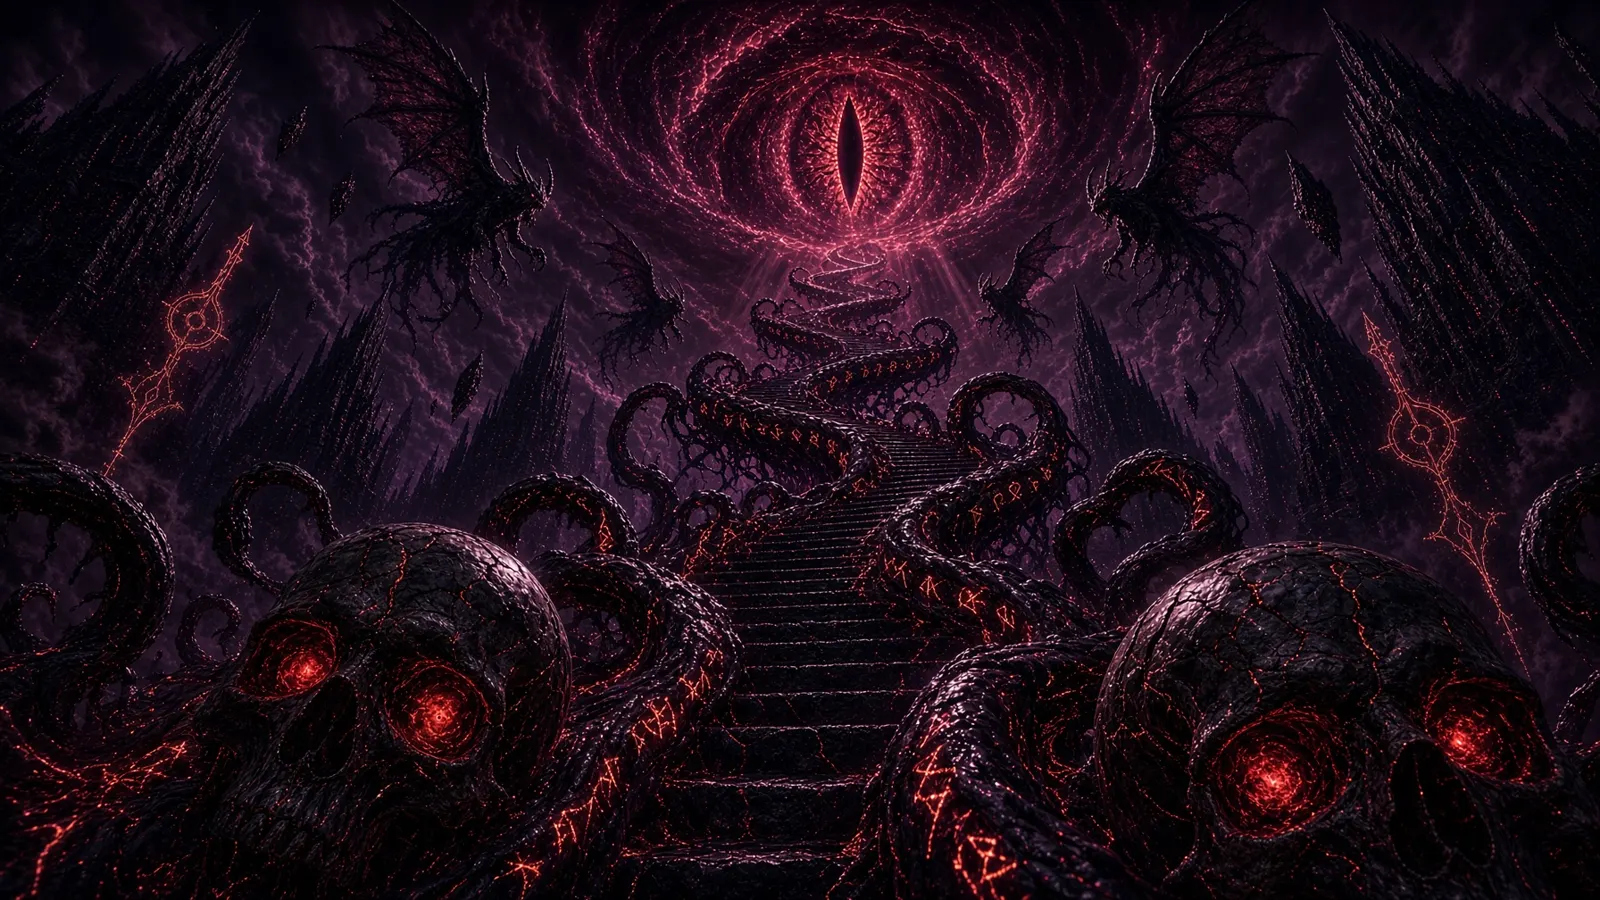
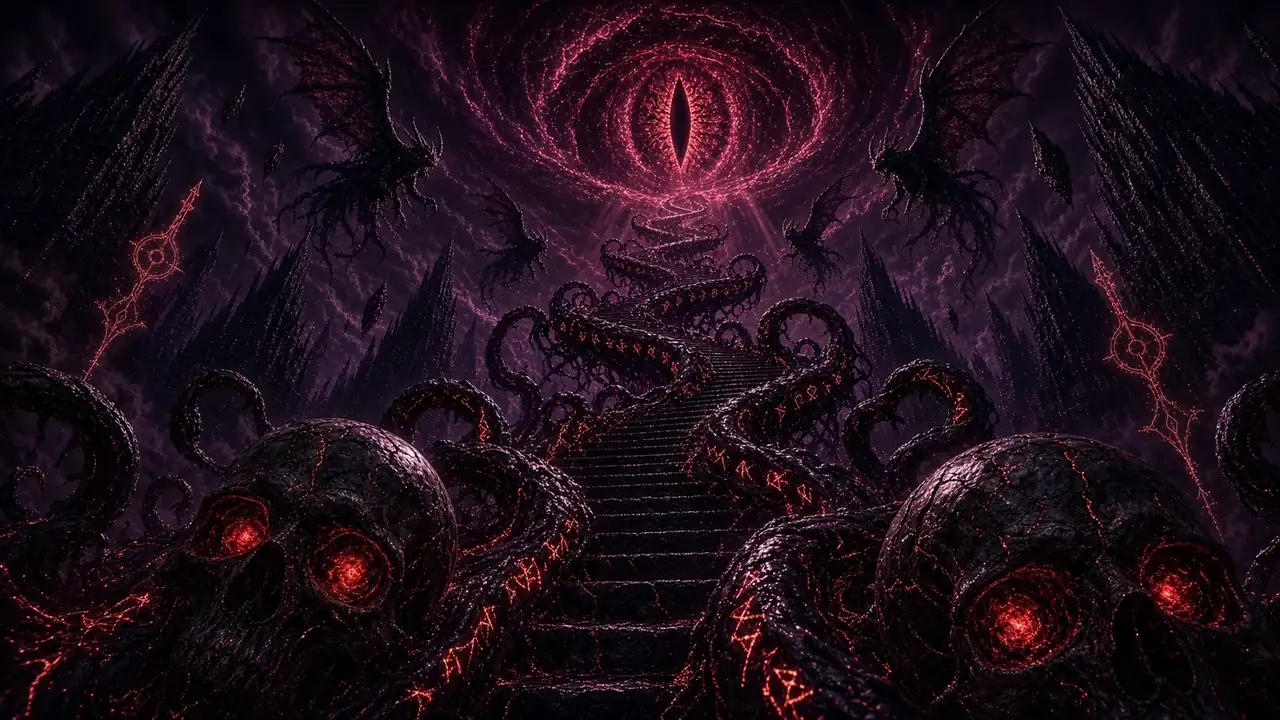
Abyss: load the first screen faster (smaller pictures, staged worlds, self-hosted fonts, non-blocking 3D library)
- the four worlds and the Queen are re-encoded (1600x900 q~75 -> 1280x720 q60;
  Queen 960 q58): 1.1 MB -> 0.57 MB, same look
- the stage is made once the Queen and the city are in; the corrupted city,
  the stairway and the Eye load after and join the stage as they arrive
  (Scene.addWorld)
- Inter and Space Grotesk come from the repo's own woff2 (preloaded), not two
  Google hosts; three.js is deferred and the stage waits for it or its failure

Claude-Session: https://claude.ai/code/session_019q3MnEzt1kSUWpBRmoRDLU

diff --git a/games/kudbee-abyss/src/scene.js b/games/kudbee-abyss/src/scene.js
@@ -29,7 +29,19 @@ ABY.Scene = (function () {
   var CHAR = { queen: [0.47, 0.20, 0.60], guardian: [0.17, 0.30, 0.78], vey: [0.80, 0.60, 0.78] };   // art u, v(from the top), how close the camera comes (1 = framing the whole art)
   var tmpC;                                                       // (made in make(): THREE may not have loaded, and the game still runs without the 3D)
 
+  // a far painting stacked behind the city, faded in by the mood: 2 the city corrupted (the red eye), 3 the stairway to the eye (mood 'throne'), 4 the Eye itself
+  // looking out (setEye). Its picture may arrive after the stage is made, so a world can be added at any time; one that is missing leaves the city alone.
+  var WORLD_Z = { 2: -45.5, 3: -45, 4: -44.5 };
+  function addWorld(n, im) {
+    if (!bg || !scene || !im || !im.naturalWidth || (n === 2 && bg2) || (n === 3 && bg3) || (n === 4 && bg4)) return false;
+    var tex = new T.Texture(im); tex.needsUpdate = true;
+    var mat = new T.MeshBasicMaterial({ map: tex, transparent: true, opacity: 0, depthWrite: false, fog: false });
+    var mesh = new T.Mesh(new T.PlaneGeometry(96, 96 * im.naturalHeight / im.naturalWidth), mat); mesh.position.set(0, 1, WORLD_Z[n]); scene.add(mesh);
+    if (n === 2) { bg2Mat = mat; bg2 = mesh; } else if (n === 3) { bg3Mat = mat; bg3 = mesh; } else { bg4Mat = mat; bg4 = mesh; }
+    return true;
+  }
   function make(container, img, bgImg, bgImg2, bgImg3, bgImg4) {
+    T = window.THREE;                                                // (the library loads without blocking the page, so it is read when the stage is made, not when this file runs)
     if (!T) return false;
     tmpC = new T.Color();
     try {
@@ -62,21 +74,8 @@ ABY.Scene = (function () {
     if (bgImg && bgImg.naturalWidth) {
       var bt = new T.Texture(bgImg); bt.needsUpdate = true; bgMat = new T.MeshBasicMaterial({ map: bt, transparent: true, depthWrite: false, fog: false });
       bg = new T.Mesh(new T.PlaneGeometry(96, 96 * bgImg.naturalHeight / bgImg.naturalWidth), bgMat); bg.position.set(0, 1, -46); scene.add(bg);
-      // the same city, corrupted (the red eye): the world fades into it whenever the mood goes dark
-      if (bgImg2 && bgImg2.naturalWidth) {
-        var bt2 = new T.Texture(bgImg2); bt2.needsUpdate = true; bg2Mat = new T.MeshBasicMaterial({ map: bt2, transparent: true, opacity: 0, depthWrite: false, fog: false });
-        bg2 = new T.Mesh(new T.PlaneGeometry(96, 96 * bgImg2.naturalHeight / bgImg2.naturalWidth), bg2Mat); bg2.position.set(0, 1, -45.5); scene.add(bg2);
-      }
-      // and the stairway to the eye: the world of the crown (mood 'throne')
-      if (bgImg3 && bgImg3.naturalWidth) {
-        var bt3 = new T.Texture(bgImg3); bt3.needsUpdate = true; bg3Mat = new T.MeshBasicMaterial({ map: bt3, transparent: true, opacity: 0, depthWrite: false, fog: false });
-        bg3 = new T.Mesh(new T.PlaneGeometry(96, 96 * bgImg3.naturalHeight / bgImg3.naturalWidth), bg3Mat); bg3.position.set(0, 1, -45); scene.add(bg3);
-      }
-      // and the Eye itself, looking out: fades in over everything whenever a scene shows it (setEye)
-      if (bgImg4 && bgImg4.naturalWidth) {
-        var bt4 = new T.Texture(bgImg4); bt4.needsUpdate = true; bg4Mat = new T.MeshBasicMaterial({ map: bt4, transparent: true, opacity: 0, depthWrite: false, fog: false });
-        bg4 = new T.Mesh(new T.PlaneGeometry(96, 96 * bgImg4.naturalHeight / bgImg4.naturalWidth), bg4Mat); bg4.position.set(0, 1, -44.5); scene.add(bg4);
-      }
+      // the other worlds (the corrupted city, the stairway to the eye, the Eye itself) are added by addWorld: at once if their pictures are here, or later when they arrive
+      addWorld(2, bgImg2); addWorld(3, bgImg3); addWorld(4, bgImg4);
     }
 
     // stars
@@ -282,6 +281,7 @@ ABY.Scene = (function () {
   };
 
   S.init = function (container, img, bgImg, bgImg2, bgImg3, bgImg4) { return make(container, img, bgImg, bgImg2, bgImg3, bgImg4); };
+  S.addWorld = function (n, im) { return addWorld(n, im); };
   S.resize = resize;
   S.drawCalls = function () { return renderer ? renderer.info.render.calls : 0; };
   S.camera = function () { return camera ? { x: camera.position.x, y: camera.position.y, z: camera.position.z } : null; };

diff --git a/games/kudbee-abyss/src/game.js b/games/kudbee-abyss/src/game.js
@@ -503,12 +503,15 @@
       setTimeout(function () { pre.classList.add('done'); }, 250); bootScreen(); wake();
     }
     var img = new Image(), bgi = new Image(), bgi2 = new Image(), bgi3 = new Image(), bgi4 = new Image(), tried = 0, got = 0;
-    function both() { if (++got === 5) ready(ABY.Scene.init($('three-canvas'), img, bgi.naturalWidth ? bgi : null, bgi2.naturalWidth ? bgi2 : null, bgi3.naturalWidth ? bgi3 : null, bgi4.naturalWidth ? bgi4 : null)); }
-    img.onload = both; bgi.onload = both; bgi.onerror = both; bgi2.onload = both; bgi2.onerror = both; bgi3.onload = both; bgi3.onerror = both; bgi4.onload = both; bgi4.onerror = both;      // the cities are a bonus: without them the nebula stays
+    function whenThree(go) { var tag = $('three'); if (window.THREE || window.__noThree || !tag) return go(); tag.addEventListener('load', go); tag.addEventListener('error', go); }   // the 3D library loads without blocking the page: wait for it (or its failure) before the stage is made
+    // the stage waits for the Queen and the city only; the other three paintings load once those are in, and join the stage as they arrive (they fade in with the mood)
+    function later() { [[2, bgi2, 'assets/world/abyss-city-corrupt.webp'], [3, bgi3, 'assets/world/abyss-stairs.webp'], [4, bgi4, 'assets/world/abyss-eye.webp']].forEach(function (w) { w[1].onload = function () { ABY.Scene.addWorld(w[0], w[1]); }; w[1].src = w[2]; }); }
+    function both() { if (++got === 2) later(); if (got === 2) whenThree(function () { ready(ABY.Scene.init($('three-canvas'), img, bgi.naturalWidth ? bgi : null, bgi2.naturalWidth ? bgi2 : null, bgi3.naturalWidth ? bgi3 : null, bgi4.naturalWidth ? bgi4 : null)); }); }
+    img.onload = both; bgi.onload = both; bgi.onerror = both;      // the cities are a bonus: without them the nebula stays
     img.onerror = function () { if (tried++ === 0) img.src = 'assets/character/queen.png'; else ready(false); };
-    var eyeImg = bgi4; eyeImg.src = 'assets/world/abyss-eye.webp';
+    var eyeImg = bgi4;
     ABY.Art = { queen: img, city: bgi, corrupt: bgi2, stairs: bgi3, eye: eyeImg };                       // the share cards are painted from these
-    img.src = 'assets/character/queen-960.webp'; bgi.src = 'assets/world/abyss-city.webp'; bgi2.src = 'assets/world/abyss-city-corrupt.webp'; bgi3.src = 'assets/world/abyss-stairs.webp';
+    img.src = 'assets/character/queen-960.webp'; bgi.src = 'assets/world/abyss-city.webp';
     setTimeout(function () { ready(false); }, 6000);                    // a slow or blocked 3D library never keeps her waiting
   }
   boot();

diff --git a/games/kudbee-abyss/index.html b/games/kudbee-abyss/index.html
@@ -23,11 +23,13 @@
 <meta name="twitter:description" content="Kudbee Abyss — a seven-night story told through a haunted phone, with ten different beginnings. Text the Queen, play the Song of Recall on the Echo Flute, and find all twenty-six endings in your Gallery. Art by Desiree Design.">
 <meta name="twitter:image" content="https://devbiz.kudbee.workers.dev/assets/og/abyss.jpg?v=8">
 <meta name="twitter:image:alt" content="Kudbee Abyss: a phone lock screen showing the Queen and a message from an unknown number, with the title The Guardian's Gate and twenty-six endings to find">
-<link rel="preconnect" href="https://fonts.googleapis.com">
-<link rel="preconnect" href="https://fonts.gstatic.com" crossorigin>
-<link href="https://fonts.googleapis.com/css2?family=Space+Grotesk:wght@400;500;700&family=Inter:wght@400;500;600;700&display=swap" rel="stylesheet">
-<script src="https://cdnjs.cloudflare.com/ajax/libs/three.js/r128/three.min.js" integrity="sha384-CI3ELBVUz9XQO+97x6nwMDPosPR5XvsxW2ua7N1Xeygeh1IxtgqtCkGfQY9WWdHu" crossorigin="anonymous"></script>
+<link rel="preload" href="../../assets/fonts/inter-variable-latin.woff2" as="font" type="font/woff2" crossorigin>
+<link rel="preload" href="../../assets/fonts/space-grotesk-variable-latin.woff2" as="font" type="font/woff2" crossorigin>
+<link rel="preconnect" href="https://cdnjs.cloudflare.com" crossorigin>
+<script src="https://cdnjs.cloudflare.com/ajax/libs/three.js/r128/three.min.js" integrity="sha384-CI3ELBVUz9XQO+97x6nwMDPosPR5XvsxW2ua7N1Xeygeh1IxtgqtCkGfQY9WWdHu" crossorigin="anonymous" defer id="three" onerror="window.__noThree=1"></script>
 <style>
+  @font-face { font-family:'Space Grotesk'; font-style:normal; font-weight:300 700; font-display:swap; src:url(../../assets/fonts/space-grotesk-variable-latin.woff2) format('woff2'); }
+  @font-face { font-family:'Inter'; font-style:normal; font-weight:100 900; font-display:swap; src:url(../../assets/fonts/inter-variable-latin.woff2) format('woff2'); }
   :root { --cyan:#39e6ff; --violet:#c46bff; --green:#7cffb2; --amber:#ffd34d; --ember:#ff8a5c; --pink:#ff6ec7; --ink:#05031a;
     --sl:env(safe-area-inset-left,0px); --sr:env(safe-area-inset-right,0px); --st:env(safe-area-inset-top,0px); --sb:env(safe-area-inset-bottom,0px);
     --fd:'Space Grotesk',system-ui,sans-serif; --ease:cubic-bezier(0.22,1,0.36,1); --sbh:30px; }
